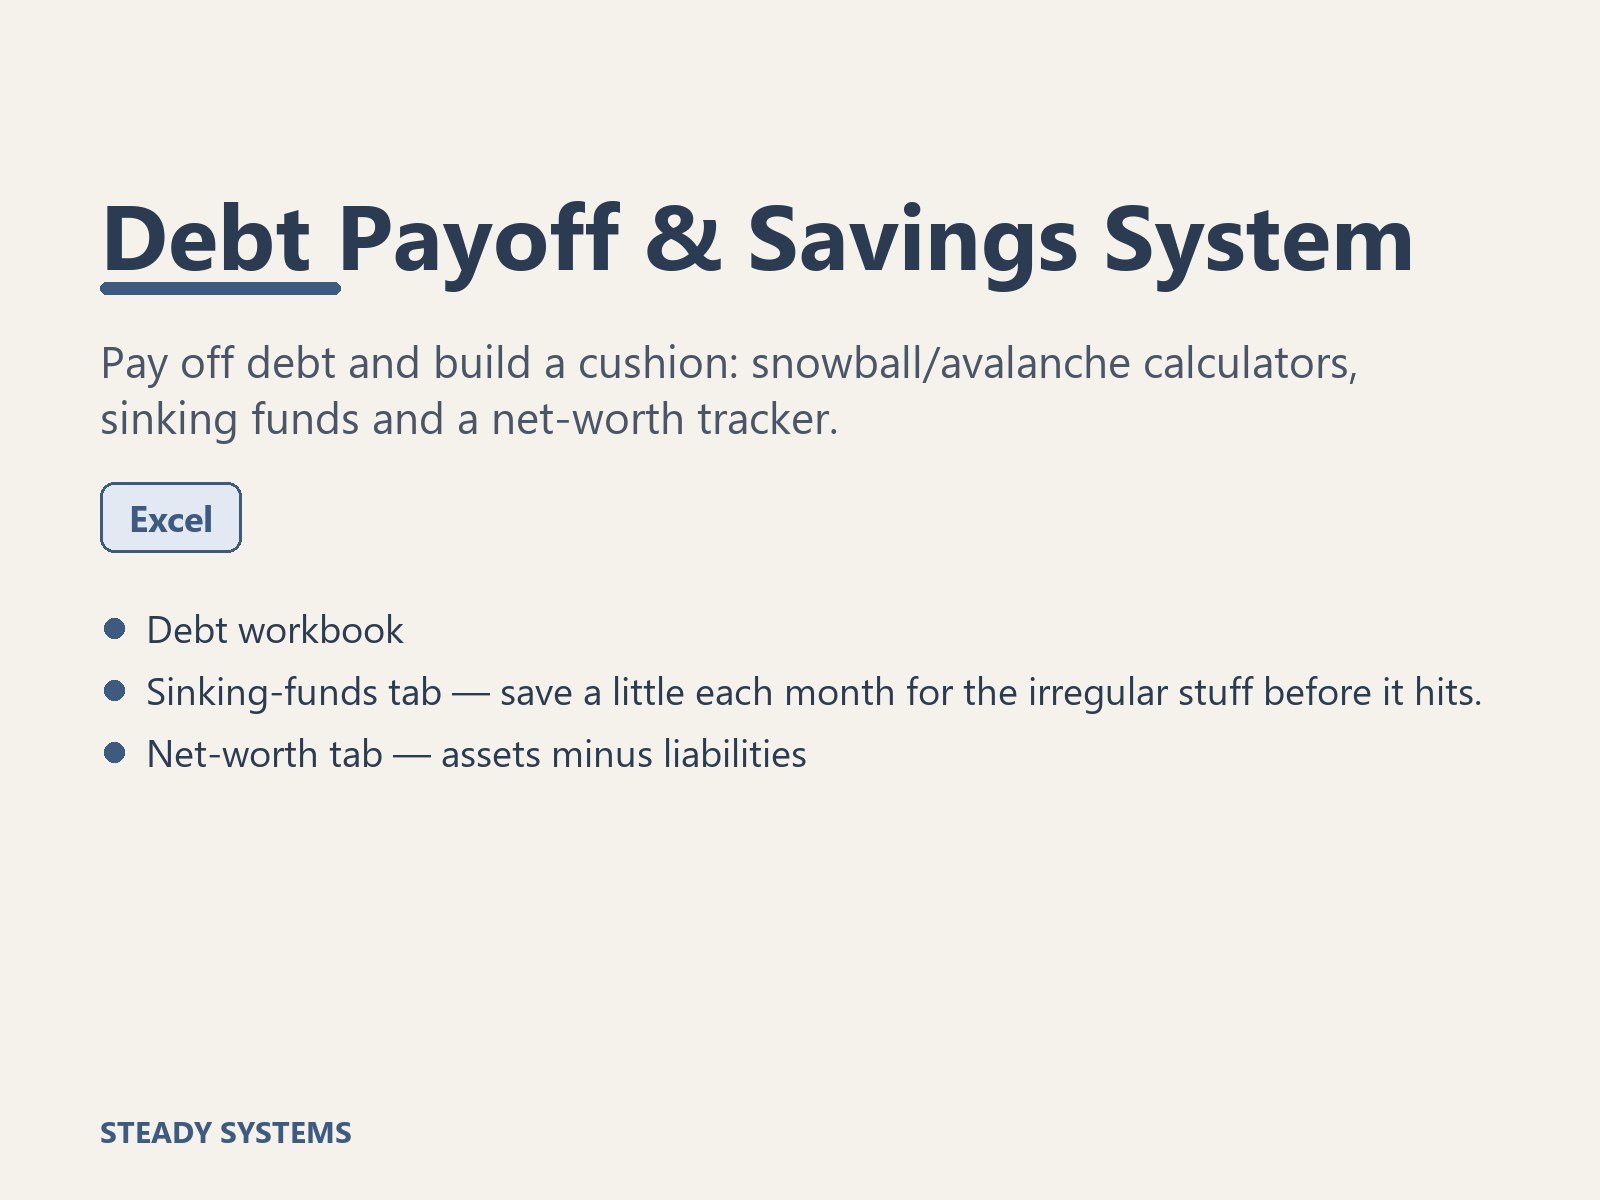
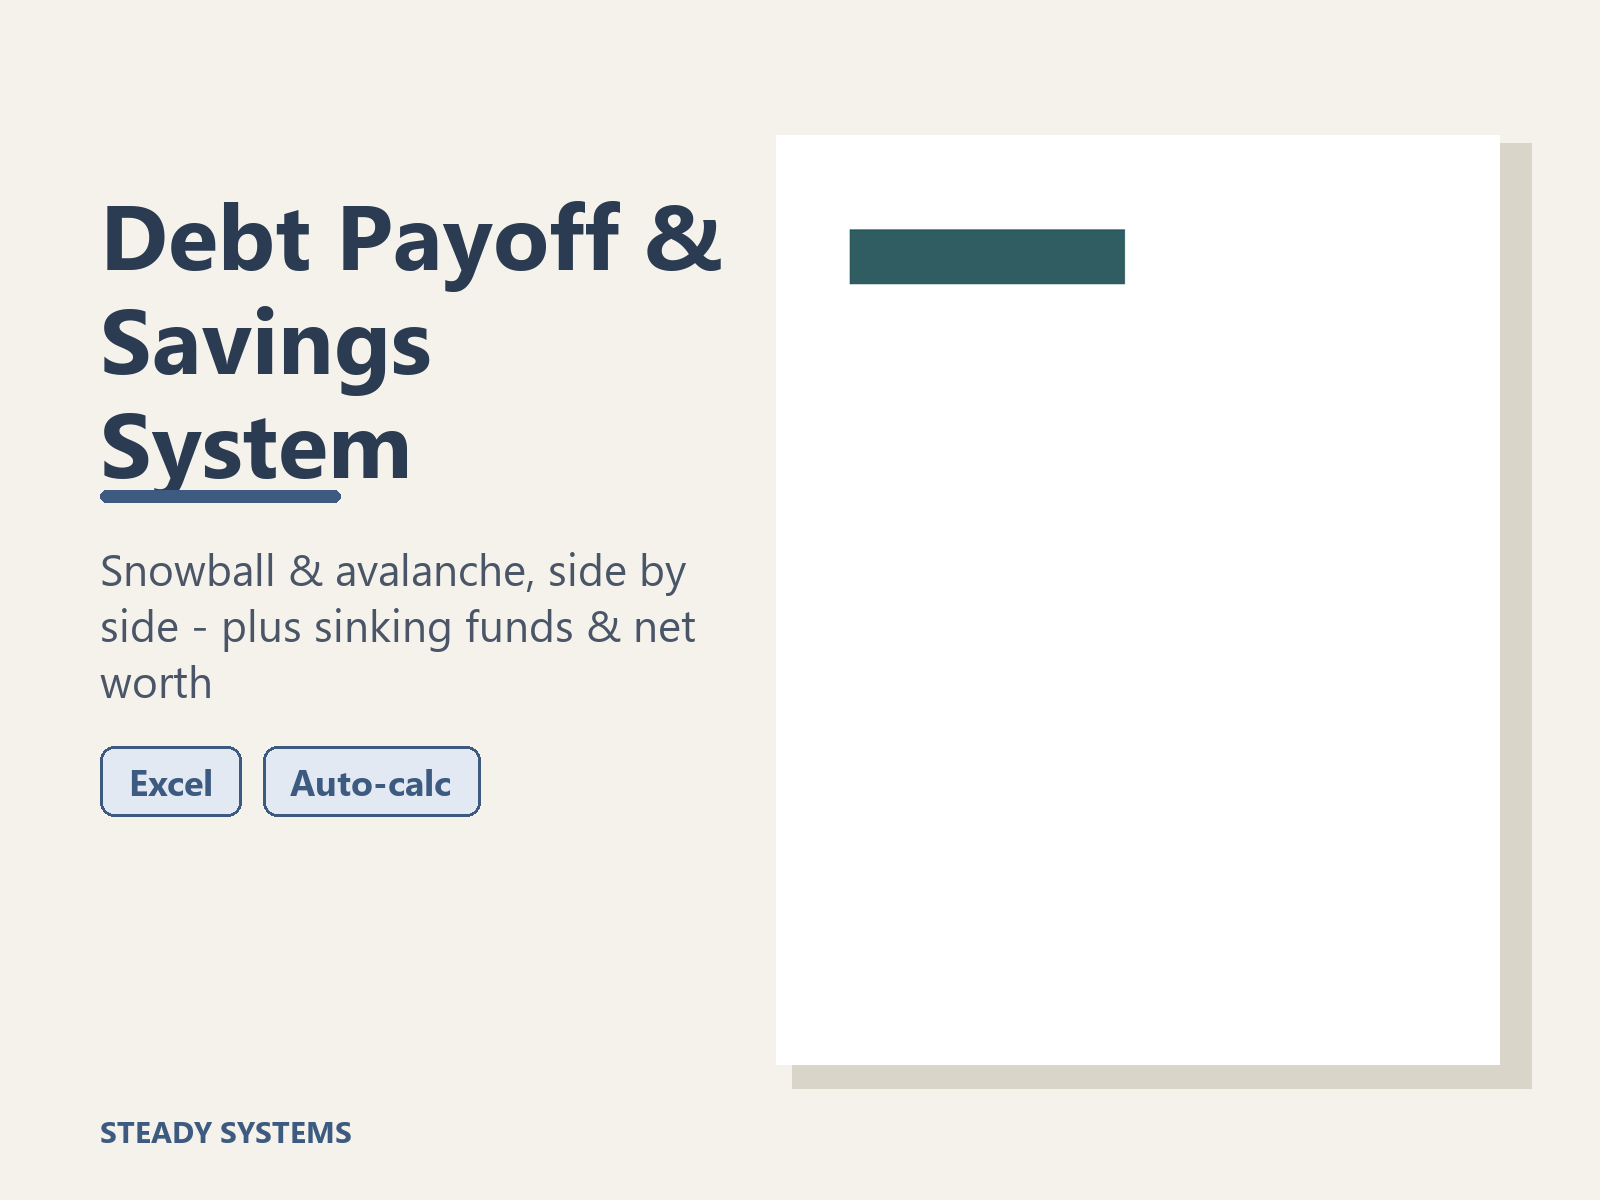
Steady shop: add the freelance pack (now 79 products live)
Regenerated steady/index.html from build_shop_page.py after reconciling the
Gumroad catalog — adds the 10 freelance products (invoice/quote, onboarding,
billable hours, tax, price list, order form, client emails, income planner,
social proof, side hustle). Covers copied for each.

Claude-Session: https://claude.ai/code/session_01RyYX9VLjAtwqdAkZESYGAZ

Changed region(s): [[0.0625, 0.1233, 0.9688, 0.925], [0.4688, 0.1542, 0.9062, 0.2467], [0.0625, 0.6167, 0.5, 0.6783]]

diff --git a/steady/index.html b/steady/index.html
@@ -95,7 +95,7 @@ footer a{color:var(--amber)}
   <p>Practical, original systems for studying, job-hunting, money and getting organized &mdash; in the formats you
      already use (Excel, Word, PDF, Obsidian/Notion). Every one is a clean instant download.</p>
   <div class="meta">
-    <span class="tag"><b>69</b> products</span>
+    <span class="tag"><b>79</b> products</span>
     <span class="tag">Instant download</span>
     <span class="tag">Personal-use license</span>
     <span class="tag">Made in Dallas, TX</span>
@@ -399,7 +399,7 @@ footer a{color:var(--amber)}
         <a class="go" href="https://syssteady.gumroad.com/l/new-job-launch-pack" target="_blank" rel="noopener">Get it on Gumroad &rarr;</a>
       </article>
     </div>
-      <h3 class="subhead">Home &amp; life admin <span>35</span></h3>
+      <h3 class="subhead">Home &amp; life admin <span>45</span></h3>
       <div class="shopgrid">
       <article class="paper">
         <a class="shotlink" href="https://syssteady.gumroad.com/l/home-maintenance-pack" target="_blank" rel="noopener">
@@ -600,6 +600,86 @@ footer a{color:var(--amber)}
         <p>See your whole month of health in one place: an Excel dashboard that averages sleep, workouts, water, mood and habits, plus a monthly review page.</p>
         <div class="chips"><span class="chip">PDF</span><span class="chip">Excel</span></div>
         <a class="go" href="https://syssteady.gumroad.com/l/wellness-dashboard" target="_blank" rel="noopener">Get it on Gumroad &rarr;</a>
+      </article>
+      <article class="paper">
+        <a class="shotlink" href="https://syssteady.gumroad.com/l/invoice-quote-pack" target="_blank" rel="noopener">
+          <img class="shot" src="covers/invoice-quote-pack.png" alt="Invoice &amp; Quote Pack cover" loading="lazy"></a>
+        <div class="top"><h3>Invoice &amp; Quote Pack</h3><span class="price">$5</span></div>
+        <p>Get paid and quote jobs cleanly: an Excel invoice that totals itself, plus a printable estimate to send before the work starts.</p>
+        <div class="chips"><span class="chip">Excel</span><span class="chip">PDF</span></div>
+        <a class="go" href="https://syssteady.gumroad.com/l/invoice-quote-pack" target="_blank" rel="noopener">Get it on Gumroad &rarr;</a>
+      </article>
+      <article class="paper">
+        <a class="shotlink" href="https://syssteady.gumroad.com/l/client-onboarding-pack" target="_blank" rel="noopener">
+          <img class="shot" src="covers/client-onboarding-pack.png" alt="Client Intake &amp; Onboarding Pack cover" loading="lazy"></a>
+        <div class="top"><h3>Client Intake &amp; Onboarding Pack</h3><span class="price">$5</span></div>
+        <p>Start every client clean: a one-page intake form that asks the right questions, plus a step-by-step onboarding checklist so nothing slips.</p>
+        <div class="chips"><span class="chip">PDF</span></div>
+        <a class="go" href="https://syssteady.gumroad.com/l/client-onboarding-pack" target="_blank" rel="noopener">Get it on Gumroad &rarr;</a>
+      </article>
+      <article class="paper">
+        <a class="shotlink" href="https://syssteady.gumroad.com/l/billable-hours-log" target="_blank" rel="noopener">
+          <img class="shot" src="covers/billable-hours-log.png" alt="Billable Hours Pack cover" loading="lazy"></a>
+        <div class="top"><h3>Billable Hours Pack</h3><span class="price">$5</span></div>
+        <p>Stop leaking billable time: an Excel tracker that multiplies hours by your rate and totals it, plus a printable log for when you&#x27;re off-screen.</p>
+        <div class="chips"><span class="chip">Excel</span><span class="chip">PDF</span></div>
+        <a class="go" href="https://syssteady.gumroad.com/l/billable-hours-log" target="_blank" rel="noopener">Get it on Gumroad &rarr;</a>
+      </article>
+      <article class="paper">
+        <a class="shotlink" href="https://syssteady.gumroad.com/l/freelance-tax-worksheet" target="_blank" rel="noopener">
+          <img class="shot" src="covers/freelance-tax-worksheet.png" alt="Freelance Tax Prep Pack cover" loading="lazy"></a>
+        <div class="top"><h3>Freelance Tax Prep Pack</h3><span class="price">$5</span></div>
+        <p>Stop dreading tax time: an Excel sheet that tells you how much of each quarter&#x27;s income to set aside, plus a checklist of common deductions to track.</p>
+        <div class="chips"><span class="chip">PDF</span><span class="chip">Excel</span></div>
+        <a class="go" href="https://syssteady.gumroad.com/l/freelance-tax-worksheet" target="_blank" rel="noopener">Get it on Gumroad &rarr;</a>
+      </article>
+      <article class="paper">
+        <a class="shotlink" href="https://syssteady.gumroad.com/l/price-list-service-menu" target="_blank" rel="noopener">
+          <img class="shot" src="covers/price-list-service-menu.png" alt="Price List &amp; Service Menu cover" loading="lazy"></a>
+        <div class="top"><h3>Price List &amp; Service Menu</h3><span class="price">$5</span></div>
+        <p>Charge with confidence: an editable Word price list and a printable service menu so your rates look professional and consistent.</p>
+        <div class="chips"><span class="chip">Word</span><span class="chip">PDF</span></div>
+        <a class="go" href="https://syssteady.gumroad.com/l/price-list-service-menu" target="_blank" rel="noopener">Get it on Gumroad &rarr;</a>
+      </article>
+      <article class="paper">
+        <a class="shotlink" href="https://syssteady.gumroad.com/l/order-form-agreement" target="_blank" rel="noopener">
+          <img class="shot" src="covers/order-form-agreement.png" alt="Order Form &amp; Simple Service Agreement cover" loading="lazy"></a>
+        <div class="top"><h3>Order Form &amp; Simple Service Agreement</h3><span class="price">$5</span></div>
+        <p>Protect the work and the relationship: a clean order form to confirm what&#x27;s bought, plus a plain-language service agreement you can edit (not legal advice).</p>
+        <div class="chips"><span class="chip">PDF</span><span class="chip">Word</span></div>
+        <a class="go" href="https://syssteady.gumroad.com/l/order-form-agreement" target="_blank" rel="noopener">Get it on Gumroad &rarr;</a>
+      </article>
+      <article class="paper">
+        <a class="shotlink" href="https://syssteady.gumroad.com/l/client-emails-followup" target="_blank" rel="noopener">
+          <img class="shot" src="covers/client-emails-followup.png" alt="Client Emails &amp; Follow-Up Pack cover" loading="lazy"></a>
+        <div class="top"><h3>Client Emails &amp; Follow-Up Pack</h3><span class="price">$5</span></div>
+        <p>Never dread a client email again: six copy-paste templates for the awkward ones (quotes, updates, payment reminders) plus a follow-up tracker so leads stop going cold.</p>
+        <div class="chips"><span class="chip">Word</span><span class="chip">PDF</span></div>
+        <a class="go" href="https://syssteady.gumroad.com/l/client-emails-followup" target="_blank" rel="noopener">Get it on Gumroad &rarr;</a>
+      </article>
+      <article class="paper">
+        <a class="shotlink" href="https://syssteady.gumroad.com/l/freelance-income-goal-planner" target="_blank" rel="noopener">
+          <img class="shot" src="covers/freelance-income-goal-planner.png" alt="Freelance Income Goal Planner cover" loading="lazy"></a>
+        <div class="top"><h3>Freelance Income Goal Planner</h3><span class="price">$5</span></div>
+        <p>Hit your number on purpose: an Excel tracker that counts income against a monthly goal, plus a weekly focus sheet that keeps your pipeline full.</p>
+        <div class="chips"><span class="chip">Excel</span><span class="chip">PDF</span></div>
+        <a class="go" href="https://syssteady.gumroad.com/l/freelance-income-goal-planner" target="_blank" rel="noopener">Get it on Gumroad &rarr;</a>
+      </article>
+      <article class="paper">
+        <a class="shotlink" href="https://syssteady.gumroad.com/l/social-proof-tracker" target="_blank" rel="noopener">
+          <img class="shot" src="covers/social-proof-tracker.png" alt="Social Proof Pack cover" loading="lazy"></a>
+        <div class="top"><h3>Social Proof Pack</h3><span class="price">$5</span></div>
+        <p>Turn finished work into future work: track testimonials and referrals you&#x27;ve actually asked for, and log portfolio pieces while the details are fresh.</p>
+        <div class="chips"><span class="chip">PDF</span><span class="chip">Excel</span></div>
+        <a class="go" href="https://syssteady.gumroad.com/l/social-proof-tracker" target="_blank" rel="noopener">Get it on Gumroad &rarr;</a>
+      </article>
+      <article class="paper">
+        <a class="shotlink" href="https://syssteady.gumroad.com/l/side-hustle-launch-kit" target="_blank" rel="noopener">
+          <img class="shot" src="covers/side-hustle-launch-kit.png" alt="Side Hustle Launch Kit cover" loading="lazy"></a>
+        <div class="top"><h3>Side Hustle Launch Kit</h3><span class="price">$5</span></div>
+        <p>Actually start the thing: a step-by-step launch checklist, a pricing worksheet so you charge enough, and a plan to land your first five clients.</p>
+        <div class="chips"><span class="chip">PDF</span></div>
+        <a class="go" href="https://syssteady.gumroad.com/l/side-hustle-launch-kit" target="_blank" rel="noopener">Get it on Gumroad &rarr;</a>
       </article>
       <article class="paper">
         <a class="shotlink" href="https://syssteady.gumroad.com/l/small-business-sop-pack" target="_blank" rel="noopener">
